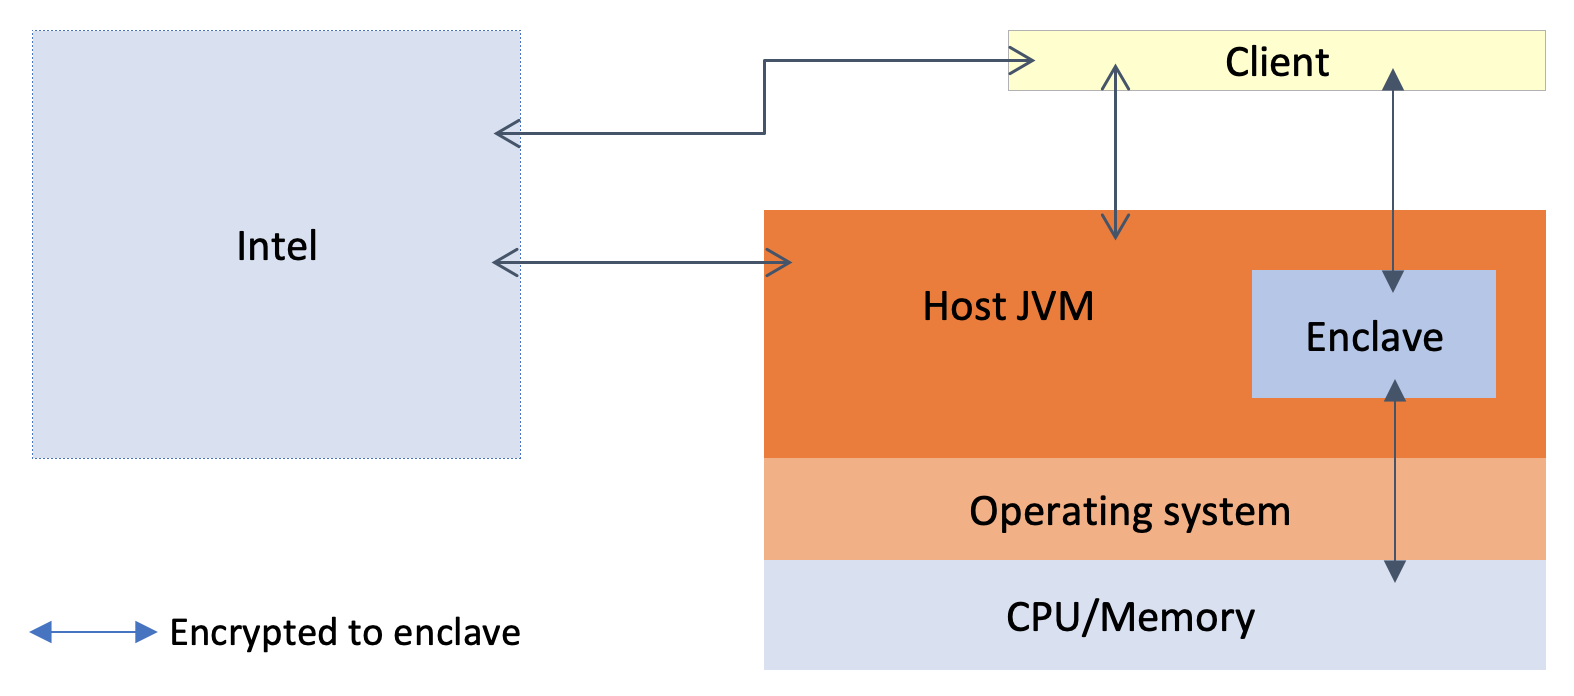
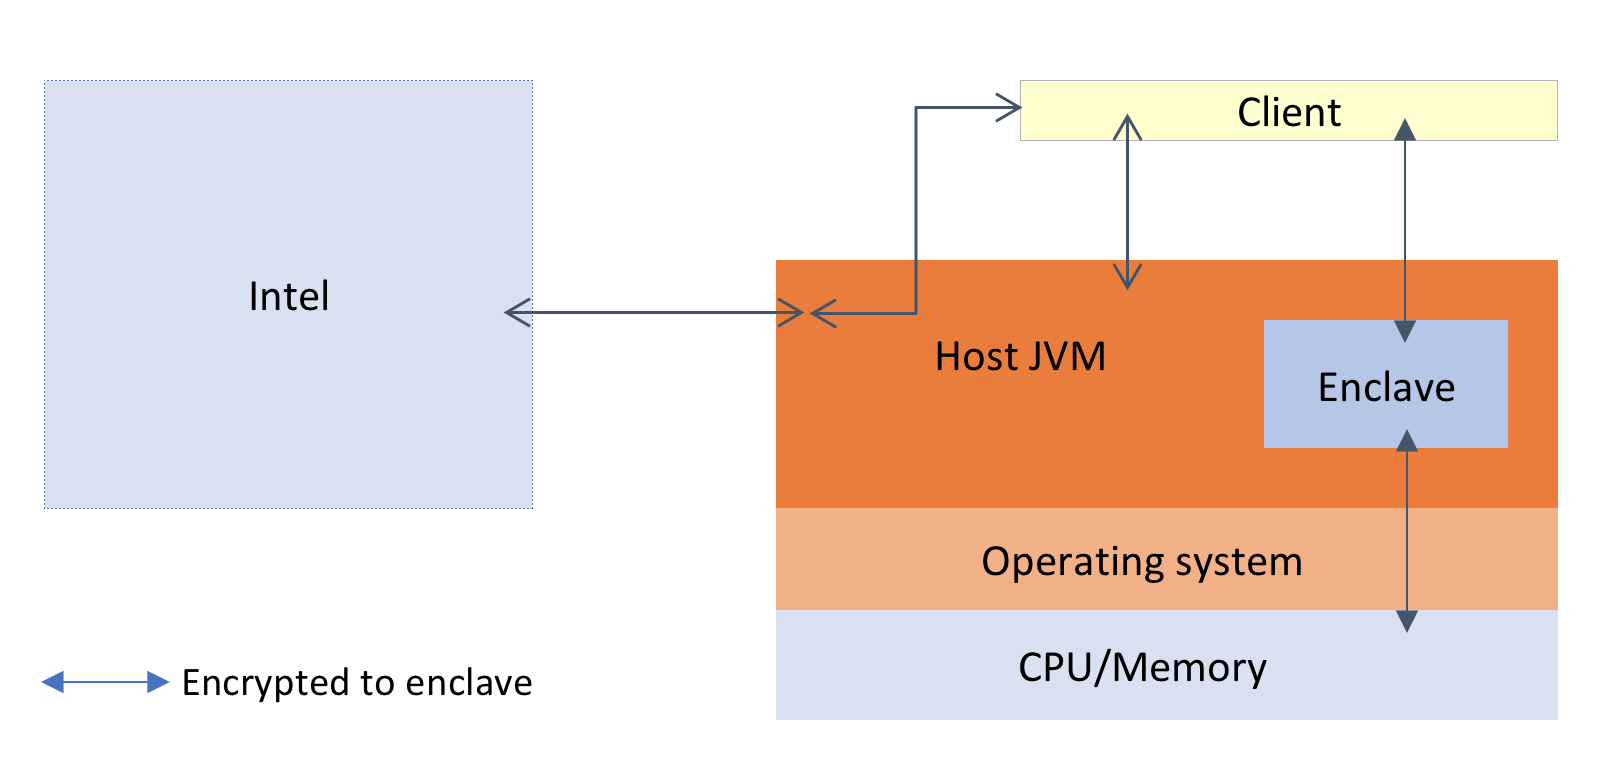
Better architecture diagram and fix a FAQ entry. (#455)

diff --git a/docs/docs/faq.md b/docs/docs/faq.md
@@ -27,7 +27,7 @@ Inside the enclave you can use Java 8 and Kotlin 1.3.
 ## Which communication channels exist to/from the enclave?
  
 The host can send and receive messages with the enclave, and an encryption key is included in the remote attestation.
-Clients may choose to use this key with Conclave Mail (not yet available in beta 2) to communicate with the enclave in 
+Clients may choose to use this key with Conclave Mail to communicate with the enclave in 
 an encrypted manner. It's up to the host to route messages to and from the network. 
 
 ## Why are you using Intel SGX versus mathematical techniques?
